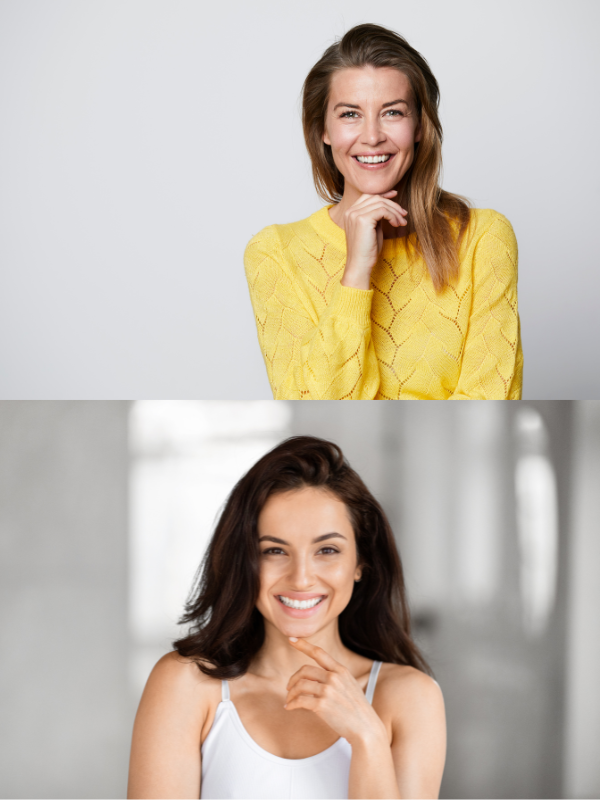
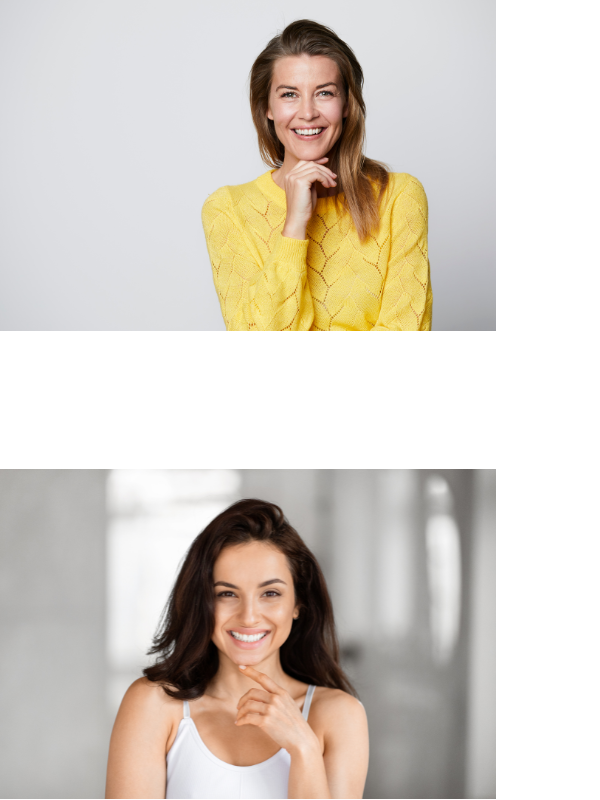
edited the images by adding white space and removing the shadow

diff --git a/src/app/page.tsx b/src/app/page.tsx
@@ -57,7 +57,7 @@ export default function HomePage() {
         <img
           src="/Images/left-side.png"
           alt="Left style visual"
-          className="w-[300px] h-[500px] object-cover rounded-lg shadow-md"
+          className="w-[300px] h-[500px] object-cover"
         />
       </div>
 
@@ -146,7 +146,7 @@ export default function HomePage() {
         <img
           src="/Images/right-side.png"
           alt="Right style visual"
-          className="w-[300px] h-[500px] object-cover rounded-lg shadow-md"
+          className="w-[300px] h-[500px] object-cover"
         />
       </div>
     </div>
